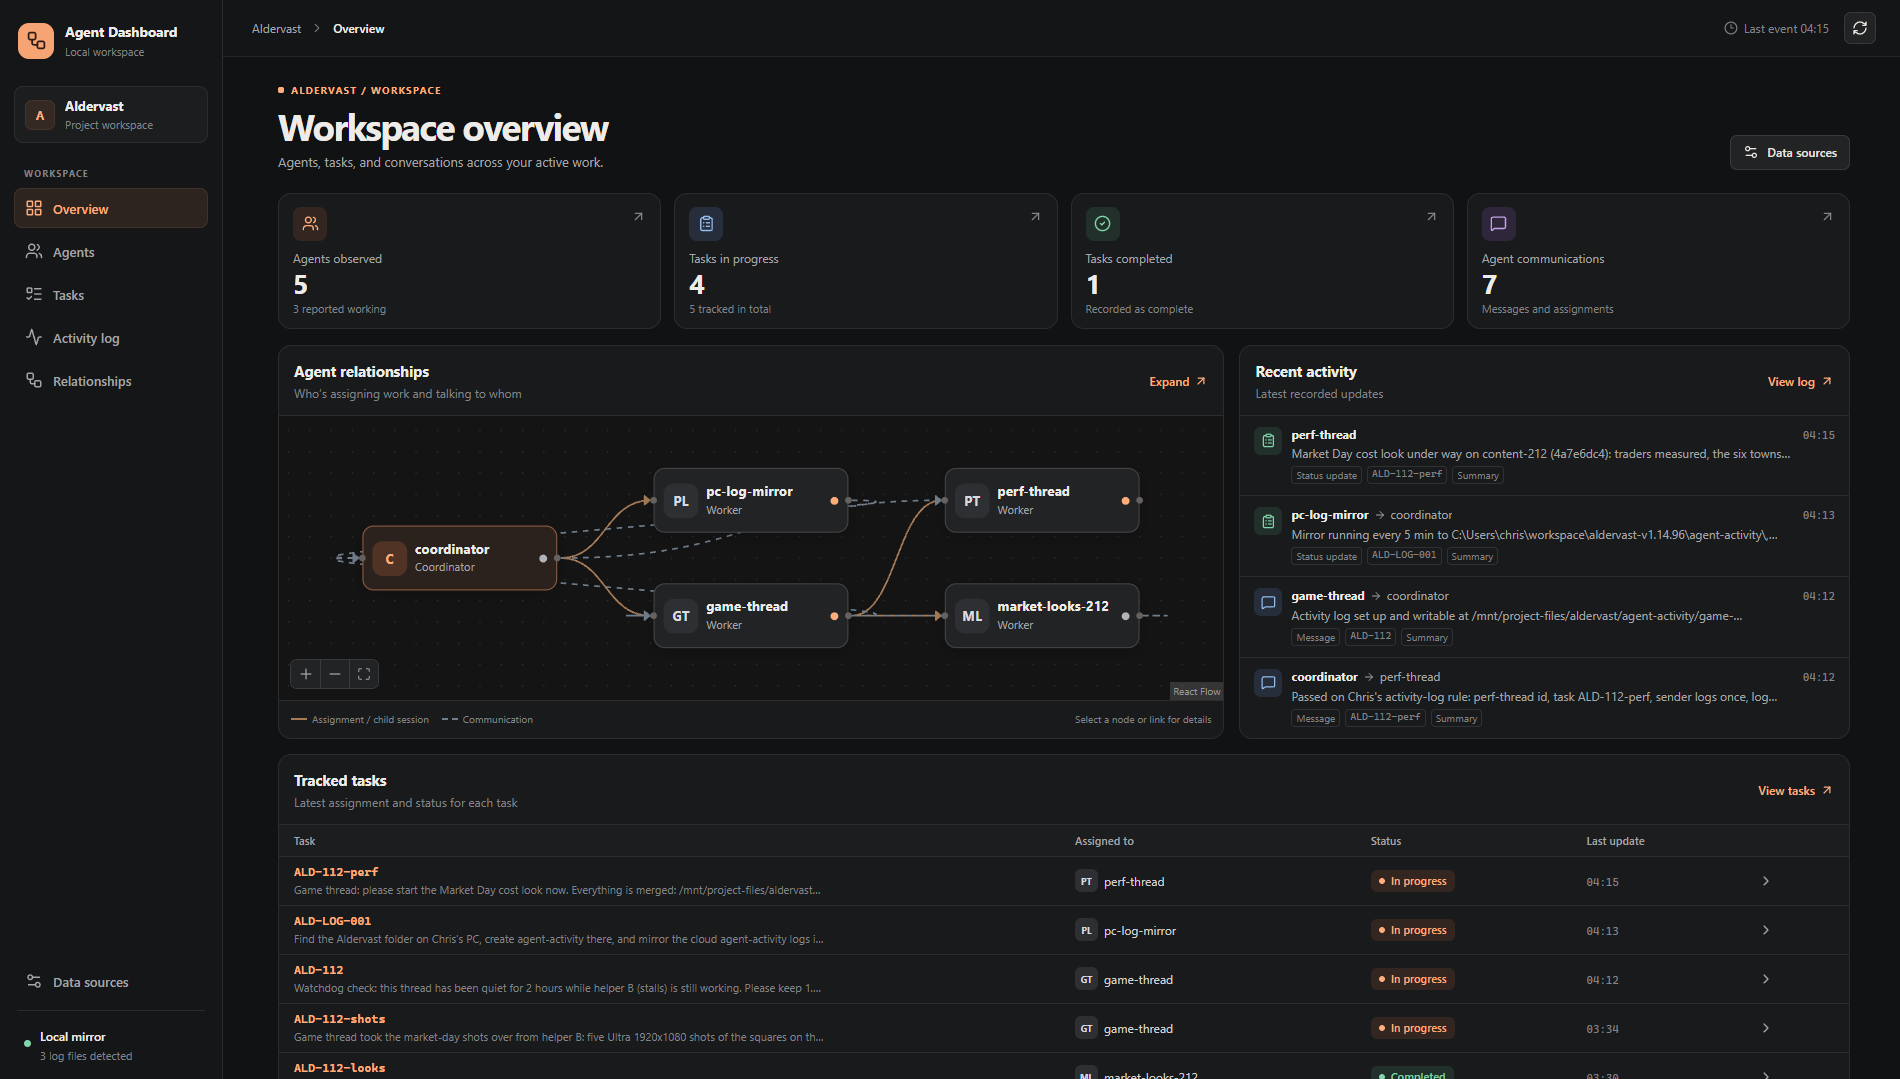
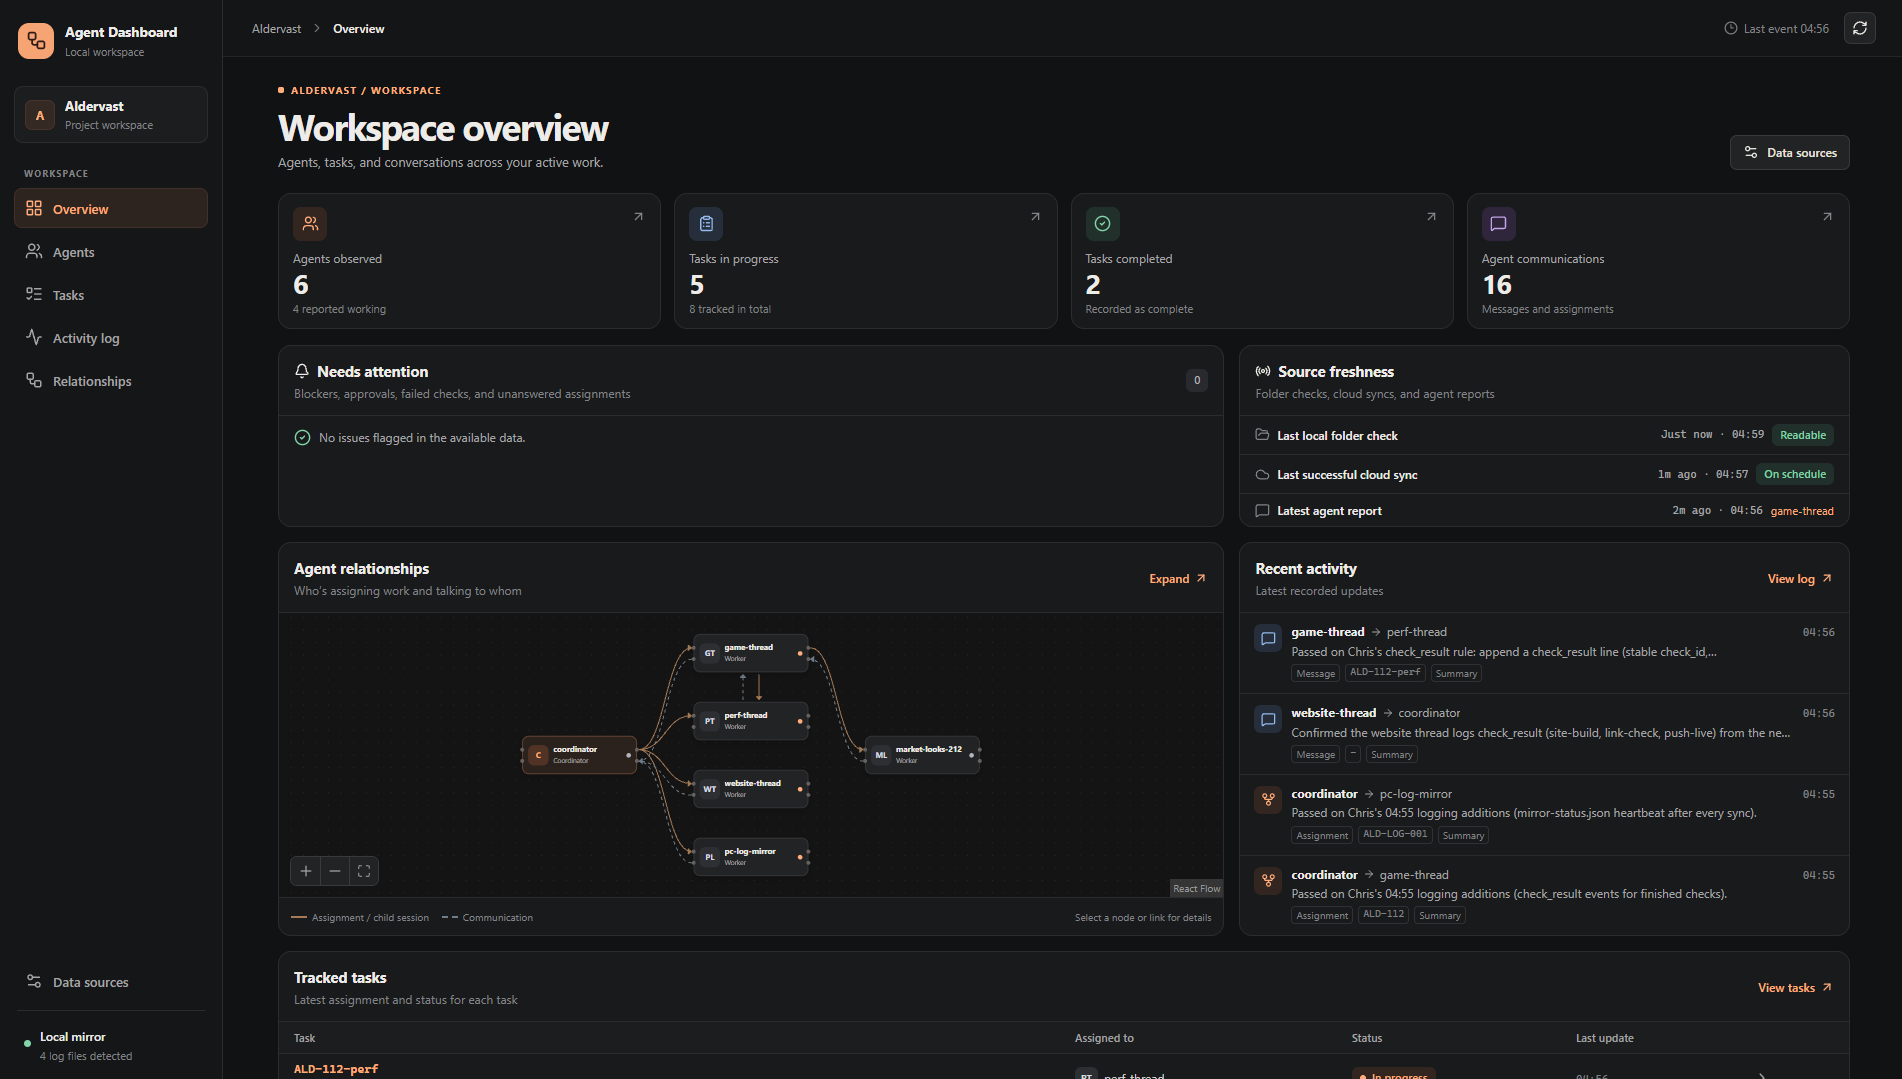
Refresh dashboard screenshot in README

diff --git a/README.md b/README.md
@@ -2,7 +2,7 @@
 
 A local web dashboard for agent workflows. Follow assignments and task status, search agent messages and activity, and explore delegation and communication in an interactive graph. It works with any harness that writes the [activity log format](docs/activity-log.md) and can also read from a local OpenCode V2 server.
 
-![Aldervast workspace overview showing agent and task counts, a relationship graph, recent activity, and tracked tasks](docs/dashboard.png)
+![Aldervast workspace overview showing Needs attention, Source freshness, agent relationships, and recent activity](docs/dashboard.png)
 
 *Aldervast is the example workspace shown above. You can connect your own project.*
 
